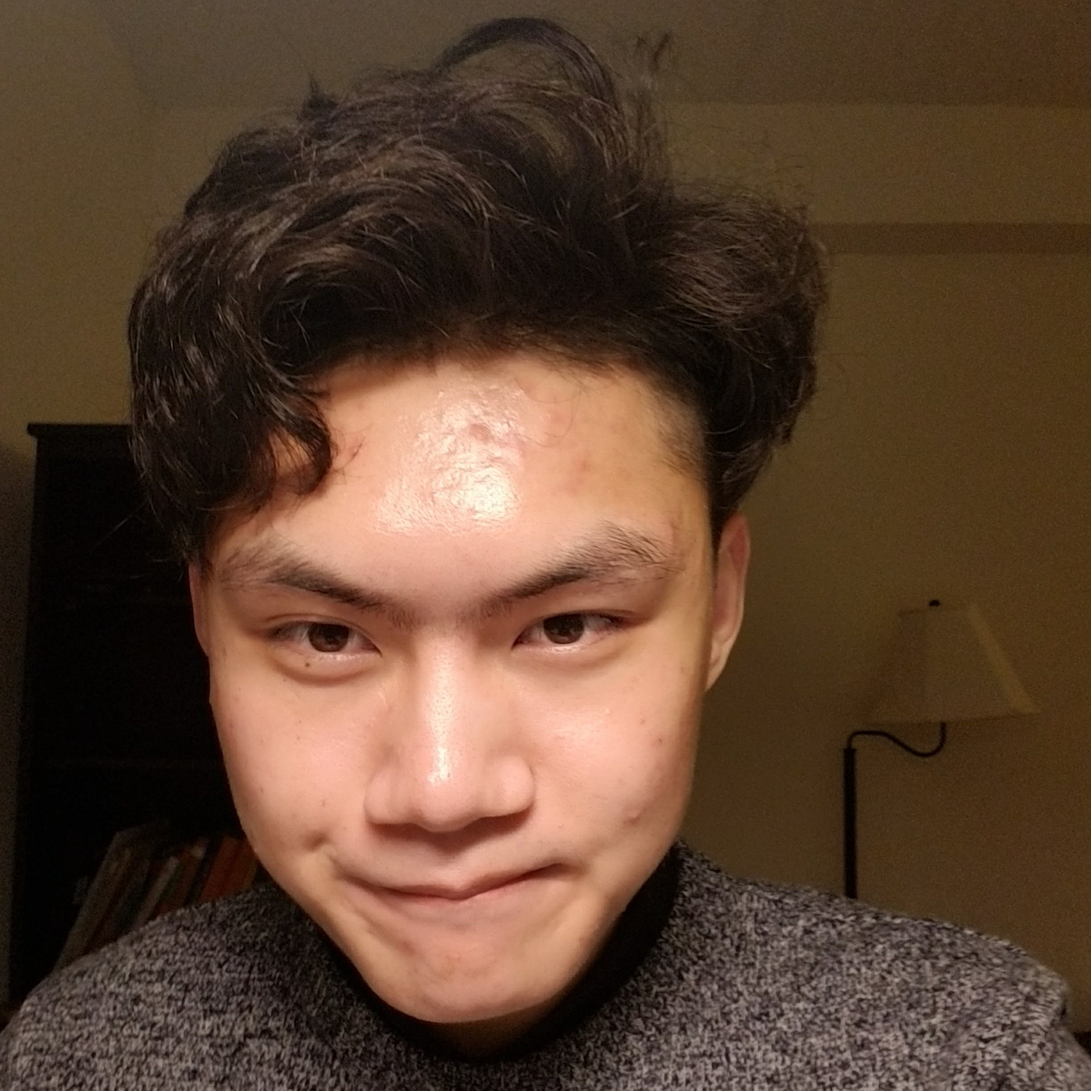
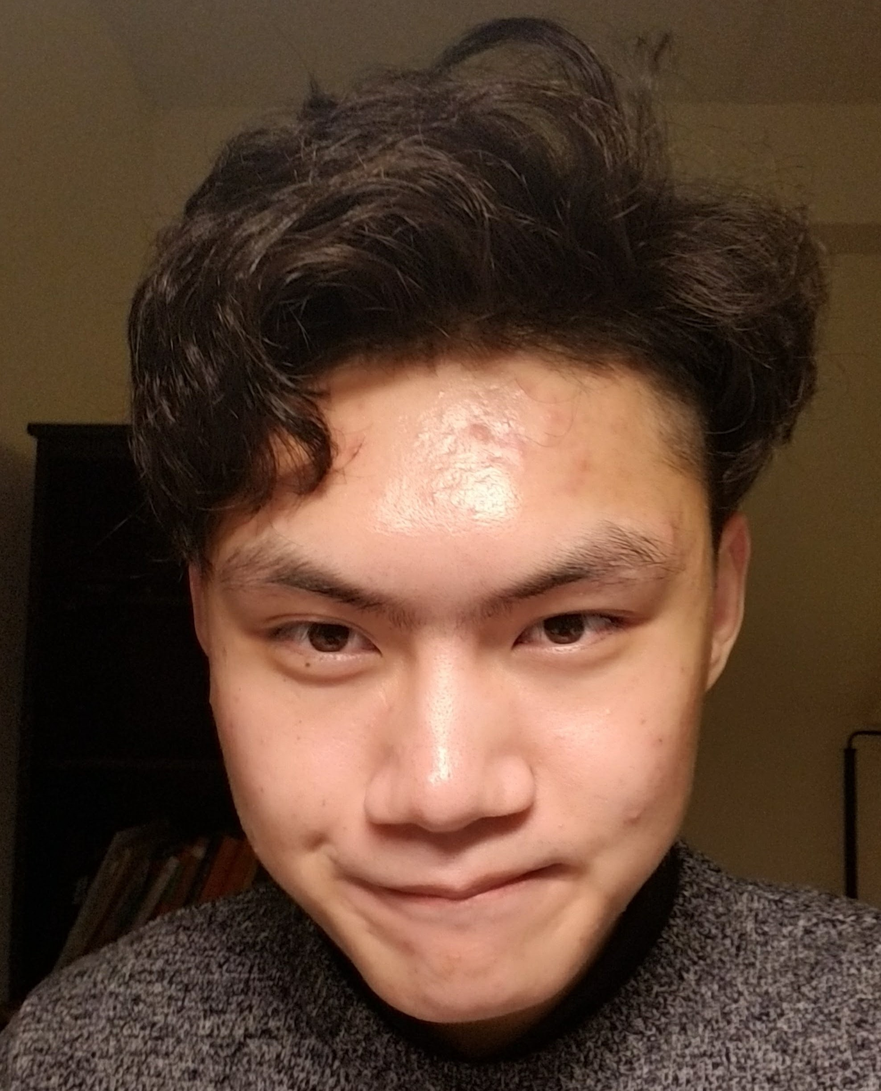
change the cover

diff --git a/index.html b/index.html
@@ -2,7 +2,7 @@
 layout: default
 home-title: 欲采蘋花不自由
 description:  一日兼他两日狂，已过三万六千场。他年新识如相问，只当飘流在异乡
-header-img: assets/img/banner.png
+header-img: assets/img/banner.jpg
 ---
 
 {% include header.html %}
